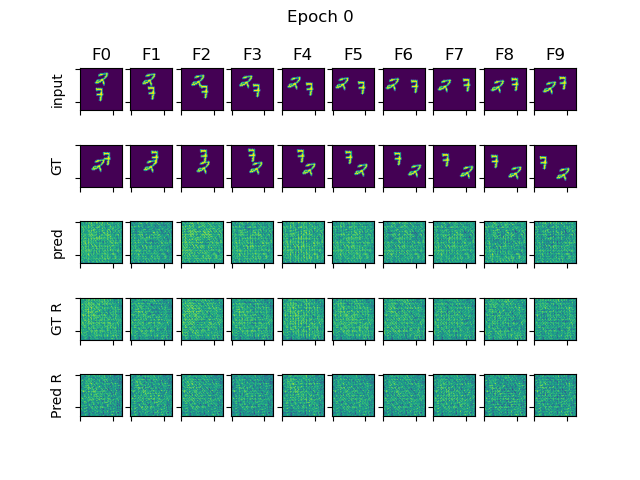
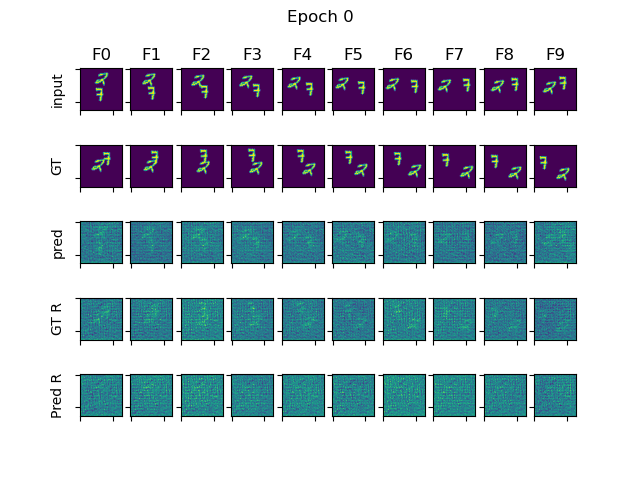
fdcocyclegan updates

Changed region(s): [[0.125, 0.4375, 0.9062, 0.5625], [0.125, 0.7812, 0.9062, 0.875], [0.125, 0.625, 0.9062, 0.7188]]

diff --git a/gan/models/fdcocyclegan/cocycle_gan_model.py b/gan/models/fdcocyclegan/cocycle_gan_model.py
@@ -396,9 +396,9 @@ class CoCycleGAN(LightningModule):
 
         # return loss + adversarial_loss
 
-        # l2_lambda = 0.0001
-        # l2_norm = sum(p.pow(2).sum() for p in self.generator.parameters())
-        # self.log("CoCycleLoss/l1_norm", l2_lambda * l2_norm, prog_bar=True)
+        l2_lambda = self.params.hparams.l2_norm_weight
+        l2_norm = sum(p.pow(2).sum() for p in self.generator.parameters())
+        self.log("CoCycleLoss/l1_norm", l2_lambda * l2_norm, prog_bar=True)
         # self.log("OneWayLoss/l1", F.smooth_l1_loss(pred_y, y), prog_bar=True)
         # self.log(
         #     "OneWayLoss/pred_y", (F.mse_loss(pred_y, y) + 10 * pred_y_l1), prog_bar=True
@@ -409,7 +409,7 @@ class CoCycleGAN(LightningModule):
             * (pred_cycle_l1 + pred_y_cycle_l1)
             + self.params.hparams["l1_pred_loss_weight"] * (pred_y_l1)
             + self.params.hparams["l1_past_pred_loss_weight"] * (pred_x_l1)
-            # + l2_norm * l2_lambda
+            + l2_norm * l2_lambda
             # + self.params.hparams["l1_pred_frame_one_loss_weight"]
             # * (pred_y_frame_one_loss + pred_x_frame_one_loss)
             # + self.params.hparams["l1_pred_frame_last_loss_weight"]
